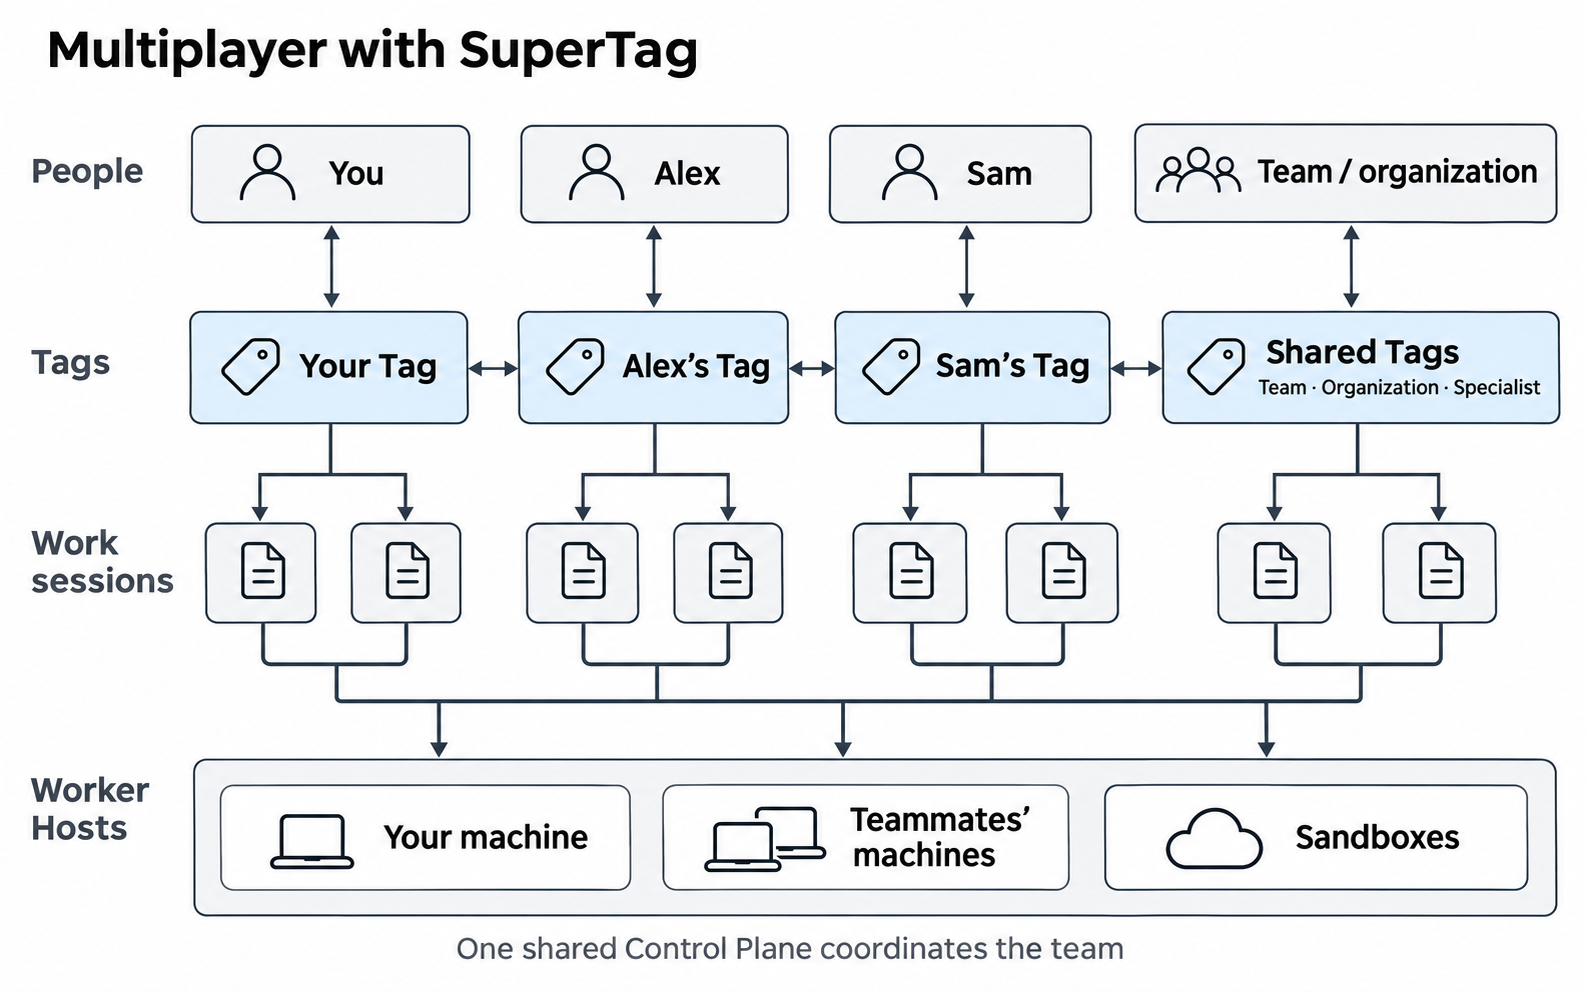
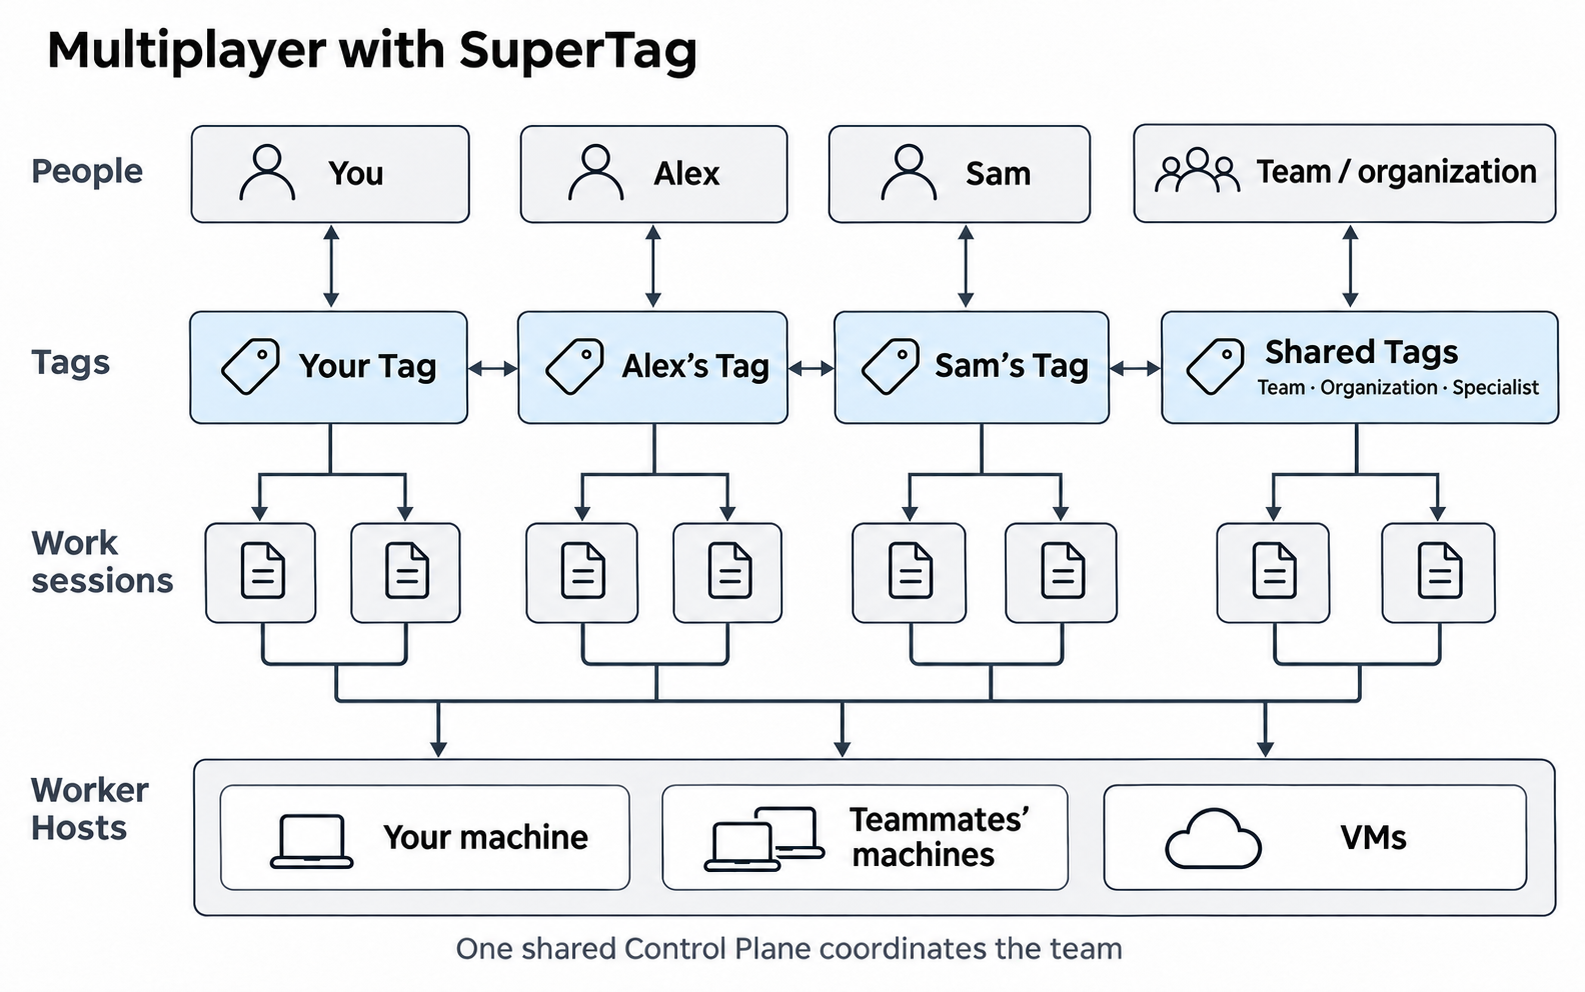
docs: label virtual machine hosts as VMs

diff --git a/README.md b/README.md
@@ -98,7 +98,7 @@ decision is yours. The Tags can run on different coding agents and machines, so
 a Tag on your laptop running Claude Code can work with one on a teammate's machine running Codex
 toward the same Objective.
 
-![You, Alex, and Sam direct your respective Tags alongside shared Tags for a team or organization, including shared specialists. The Tags coordinate with one another, and their work sessions run across Worker Hosts including your machine, teammates' machines, and sandboxes. One shared Control Plane coordinates the team.](assets/images/supertag-shared-control-plane.png)
+![You, Alex, and Sam direct your respective Tags alongside shared Tags for a team or organization, including shared specialists. The Tags coordinate with one another, and their work sessions run across Worker Hosts including your machine, teammates' machines, and VMs. One shared Control Plane coordinates the team.](assets/images/supertag-shared-control-plane.png)
 
 [How multiplayer works](docs/concepts/multiplayer.md) · [Self-host SuperTag](docs/guides/self-hosting.md)
 
